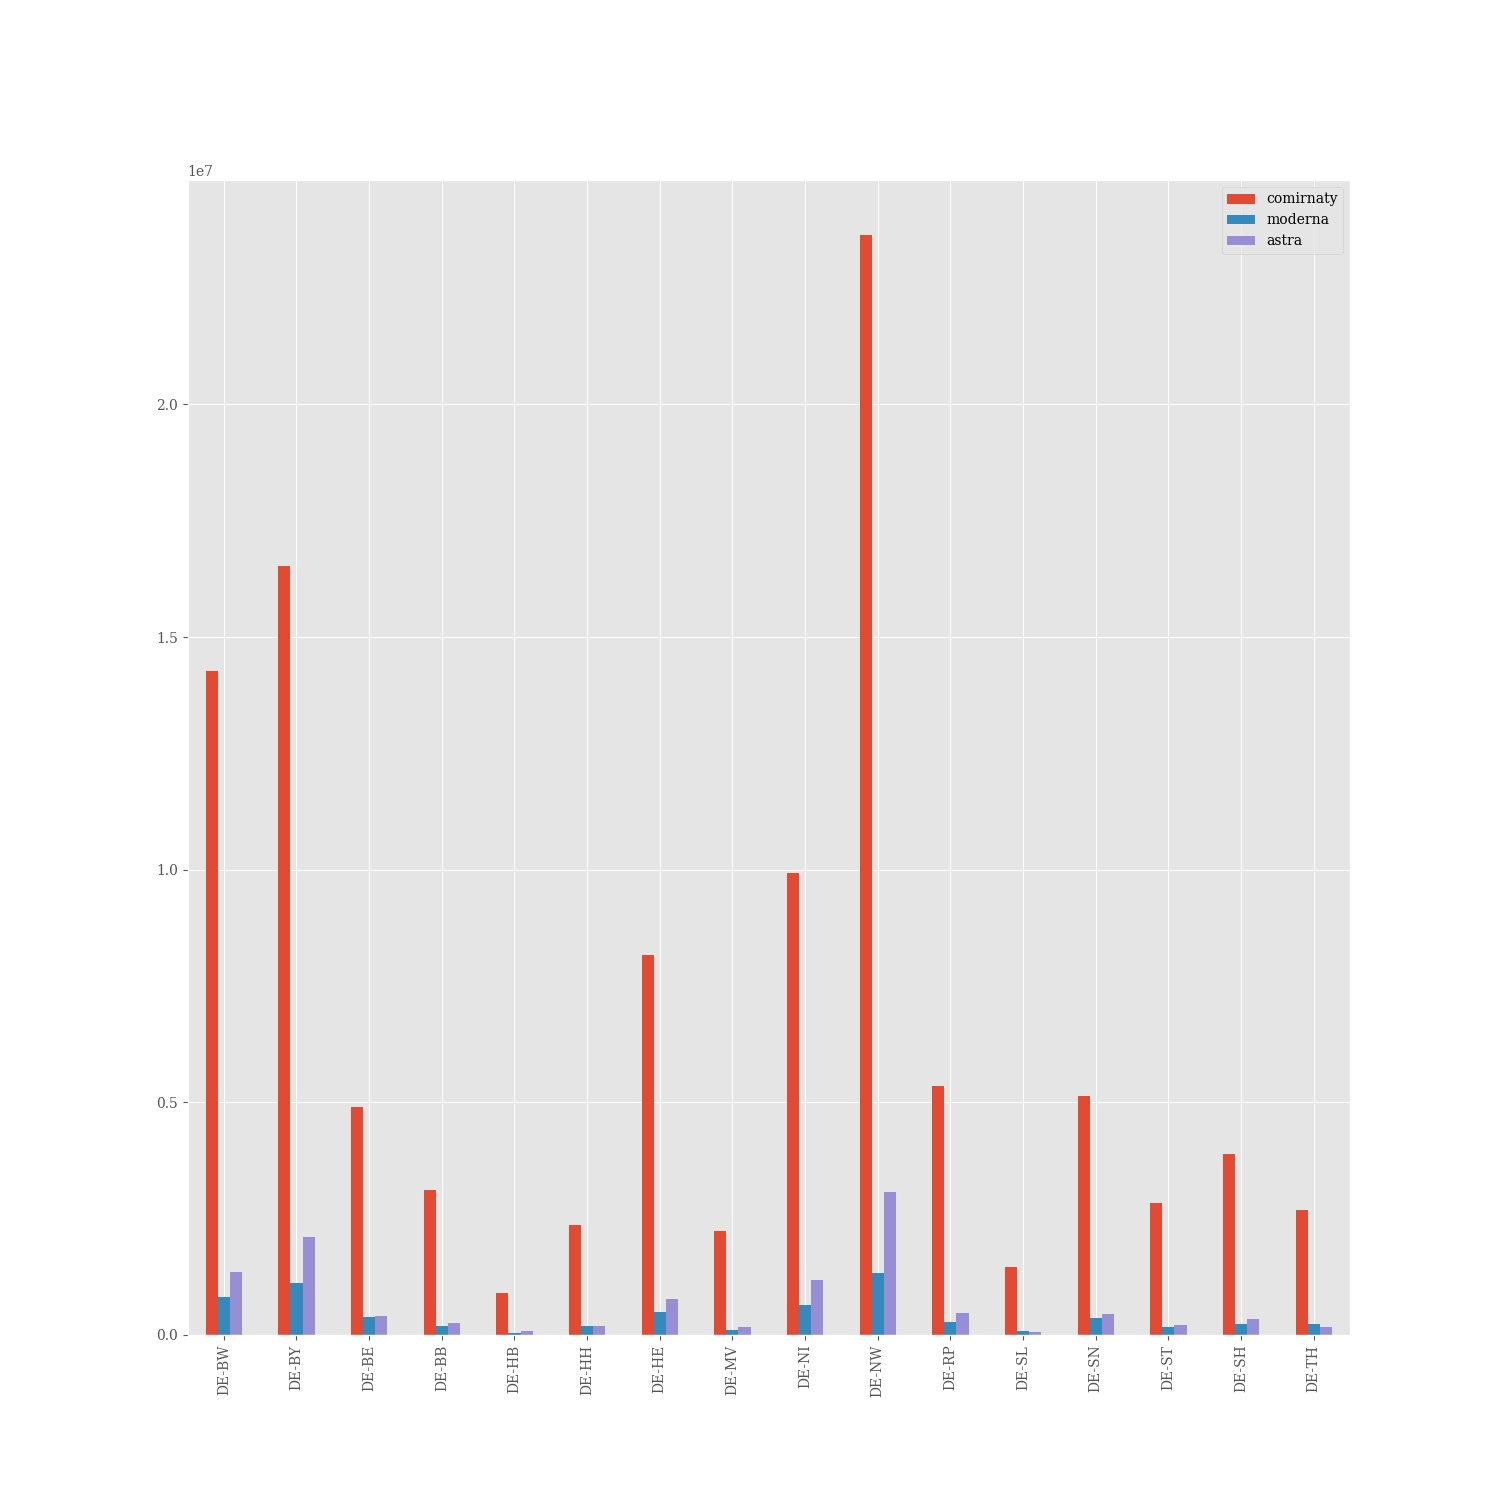
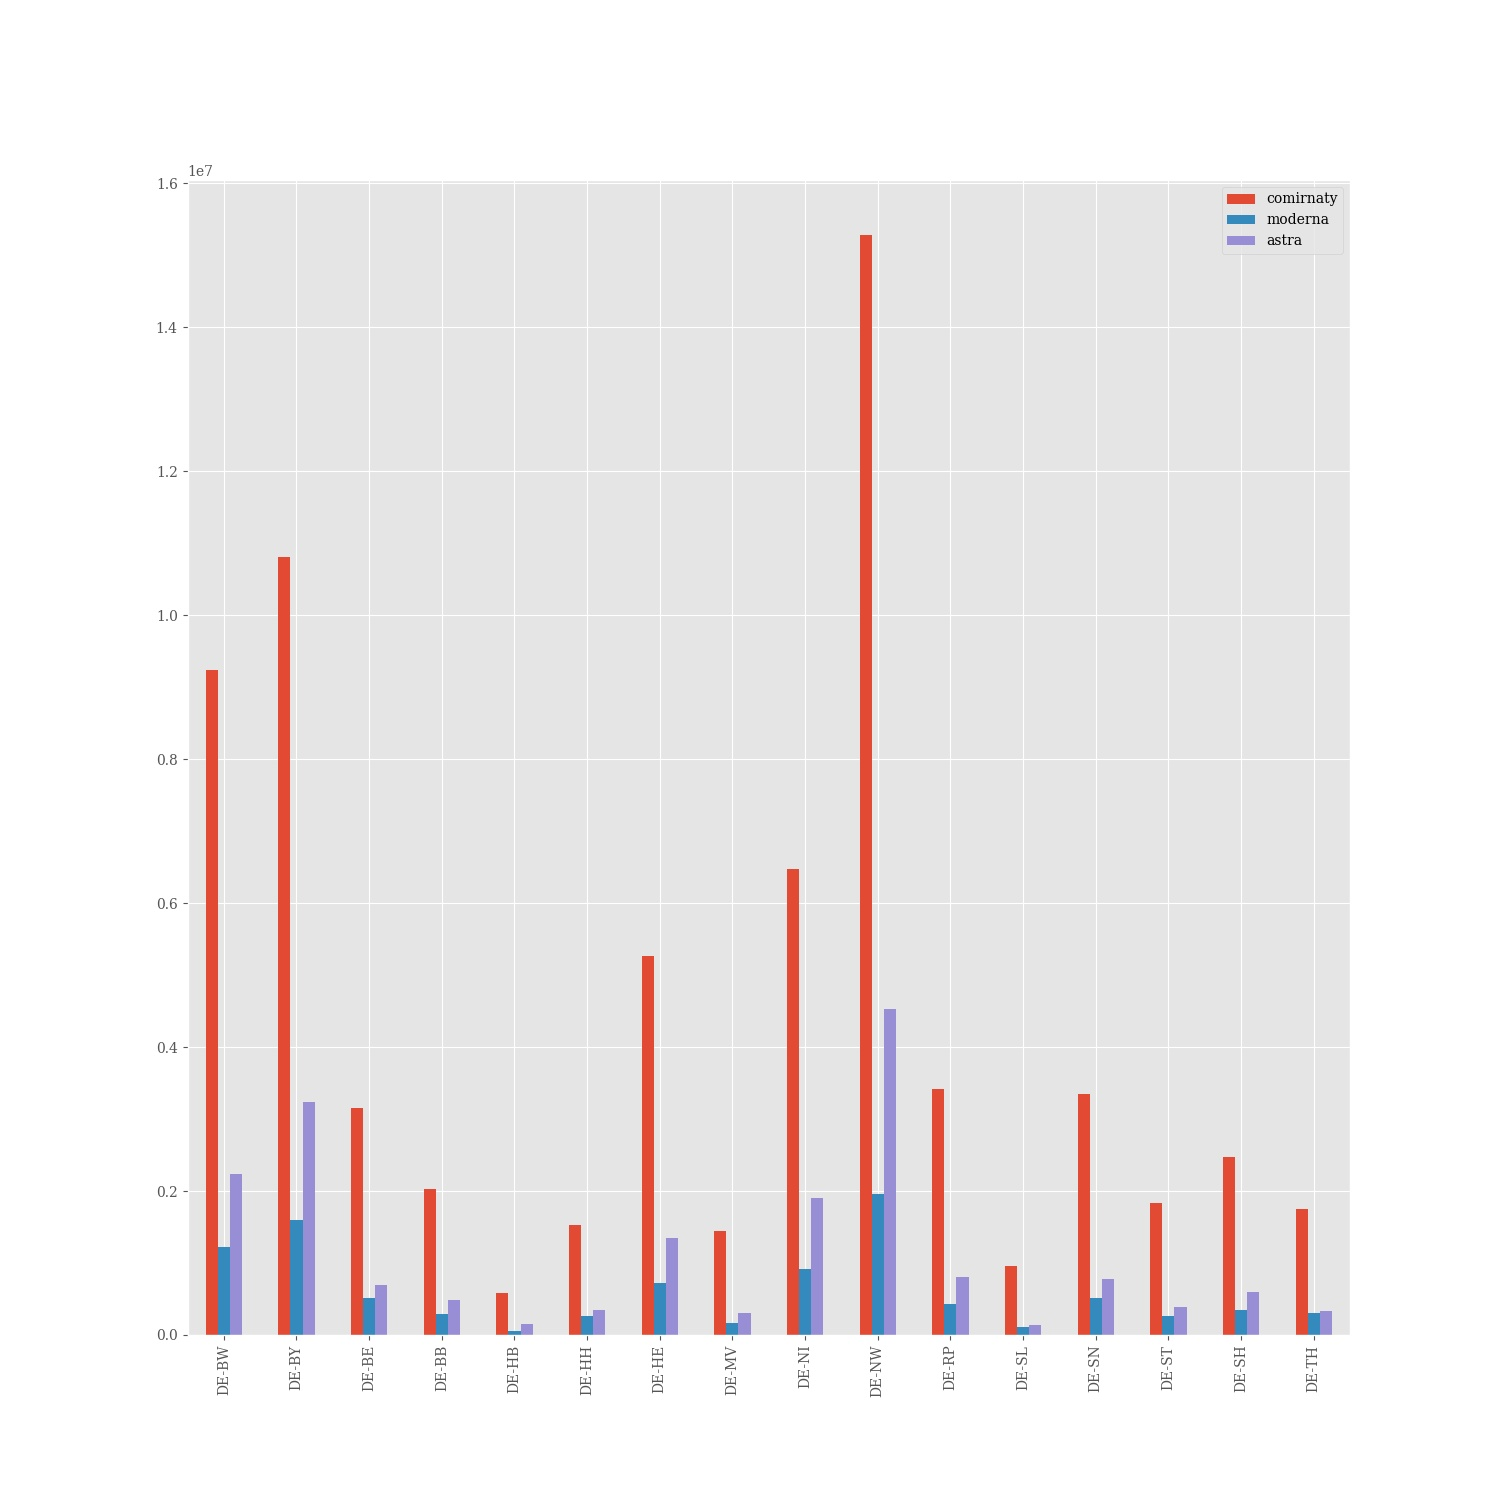
Crontab commit

diff --git a/Readme.md b/Readme.md
@@ -17,22 +17,22 @@ Astrazeneca | 12387724
 ## Bundesländer
 **Bundesland** | **Prozent von gelieferten Imfdosen verimpft**
 -------- | :--------:
-DE-BW | 69.96 %
-DE-BY | 67.04 %
-DE-BE | 67.19 %
-DE-BB | 67.94 %
-DE-HB | 79.05 %
-DE-HH | 68.80 %
-DE-HE | 69.32 %
-DE-MV | 66.33 %
-DE-NI | 71.92 %
-DE-NW | 70.05 %
-DE-RP | 71.17 %
-DE-SL | 69.75 %
-DE-SN | 63.60 %
-DE-ST | 66.98 %
-DE-SH | 71.60 %
-DE-TH | 68.58 %
+DE-BW | 89.79 %
+DE-BY | 83.97 %
+DE-BE | 87.04 %
+DE-BB | 86.08 %
+DE-HB | 101.83 %
+DE-HH | 87.68 %
+DE-HE | 88.36 %
+DE-MV | 86.12 %
+DE-NI | 89.96 %
+DE-NW | 89.43 %
+DE-RP | 92.79 %
+DE-SL | 91.68 %
+DE-SN | 81.20 %
+DE-ST | 86.71 %
+DE-SH | 93.29 %
+DE-TH | 87.83 %
 ## Graphen
 <img src="Impfungen-Corona-01.jpg" alt="Impf Übersicht" title="Impf Übersicht" />
 <img src="Impfungen-Corona-02.jpg" alt="Impfquote" title="Impf Übersicht" />
